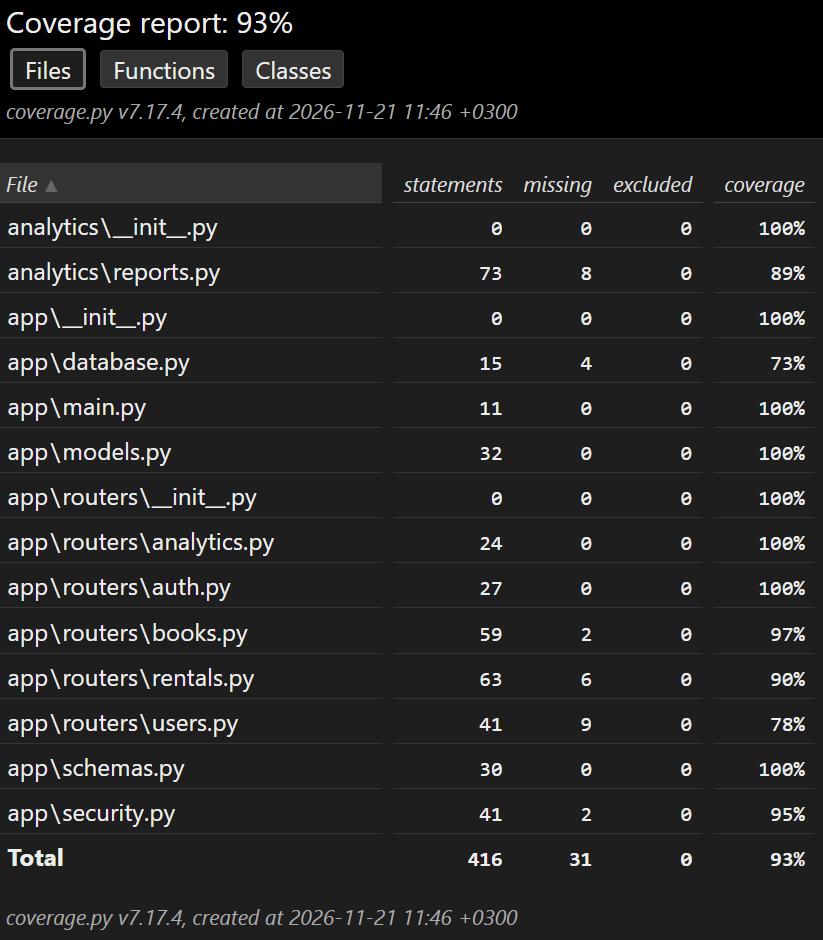
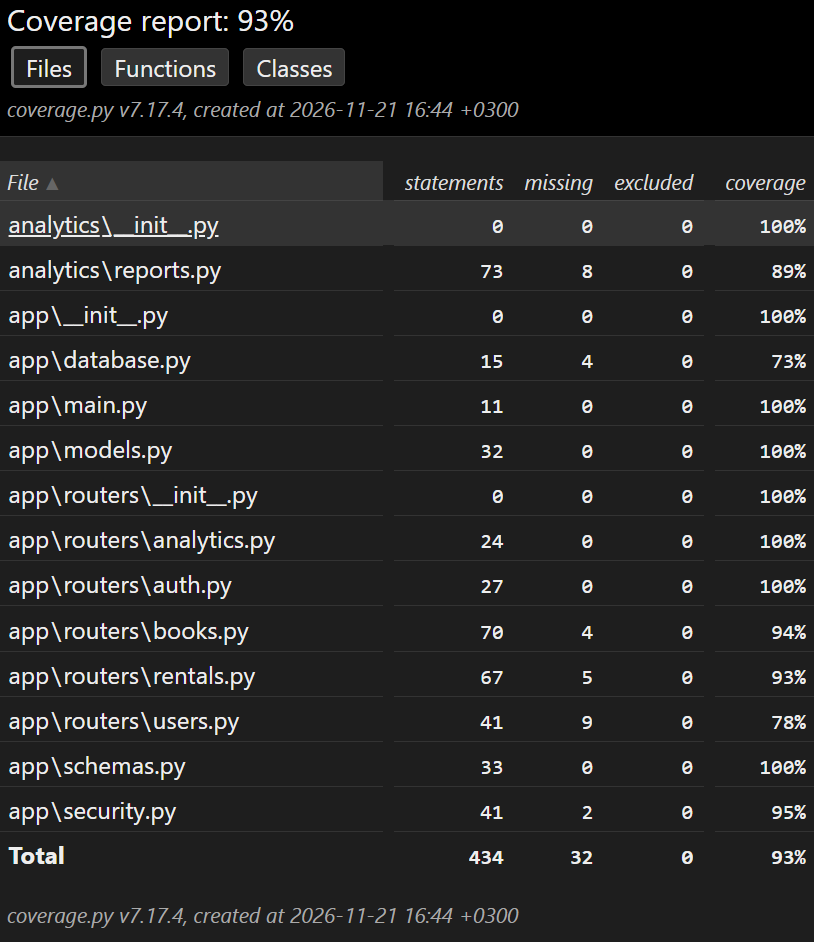
add partial indexes on rentals for active bookings and user lookups

diff --git a/alembic/versions/10fc8edf1f68_add_rentals_indexes.py b/alembic/versions/10fc8edf1f68_add_rentals_indexes.py
@@ -1,0 +1,31 @@
+"""add rentals indexes
+
+Revision ID: 10fc8edf1f68
+Revises: 02e0a171a148
+Create Date: 2026-11-21 16:46:19.393476
+
+"""
+from typing import Sequence, Union
+
+from alembic import op
+import sqlalchemy as sa
+from sqlalchemy import text
+
+
+# revision identifiers, used by Alembic.
+revision: str = '10fc8edf1f68'
+down_revision: Union[str, Sequence[str], None] = '02e0a171a148'
+branch_labels: Union[str, Sequence[str], None] = None
+depends_on: Union[str, Sequence[str], None] = None
+
+
+def upgrade() -> None:
+    op.create_index("ix_rentals_book_id_active", "rentals", ["book_id"], postgresql_where=text("returned_at IS NULL"))
+    op.create_index("ix_rentals_user_id", "rentals", ["user_id"])
+    op.create_index("ix_rentals_due_check", "rentals", ["due_at"], postgresql_where=text("returned_at IS NULL"))
+
+
+def downgrade() -> None:
+    op.drop_index("ix_rentals_due_check", table_name="rentals")
+    op.drop_index("ix_rentals_user_id", table_name="rentals")
+    op.drop_index("ix_rentals_book_id_active", table_name="rentals")

diff --git a/tests/test_rentals.py b/tests/test_rentals.py
@@ -4,6 +4,7 @@ from sqlalchemy import update
 
 from app.models import Rental
 from tests.utils import auth, make_book
+from concurrent.futures import ThreadPoolExecutor
 
 
 def test_rent_and_return(client, user_token, book):
@@ -73,3 +74,17 @@ def test_overdue_filter(client, db_session, user_token, admin_token):
 
     client.post(f"/rentals/{rental_id}/return", headers=auth(admin_token))
     assert client.get("/rentals?overdue=true", headers=auth(admin_token)).json()["items"] == []
+
+
+def test_rent_race_last_copy(client, user_token):
+    bk = make_book(client, user_token, title="Гонка", total_copies=1)
+
+    def rent():
+        return client.post(f"/rentals/book/{bk['id']}", headers=auth(user_token))
+
+    with ThreadPoolExecutor(max_workers=2) as pool:
+        futures = [pool.submit(rent), pool.submit(rent)]
+        results = [f.result() for f in futures]
+
+    codes = sorted(r.status_code for r in results)
+    assert codes == [201, 409], f"ожидались 201 и 409, получили {codes}"
